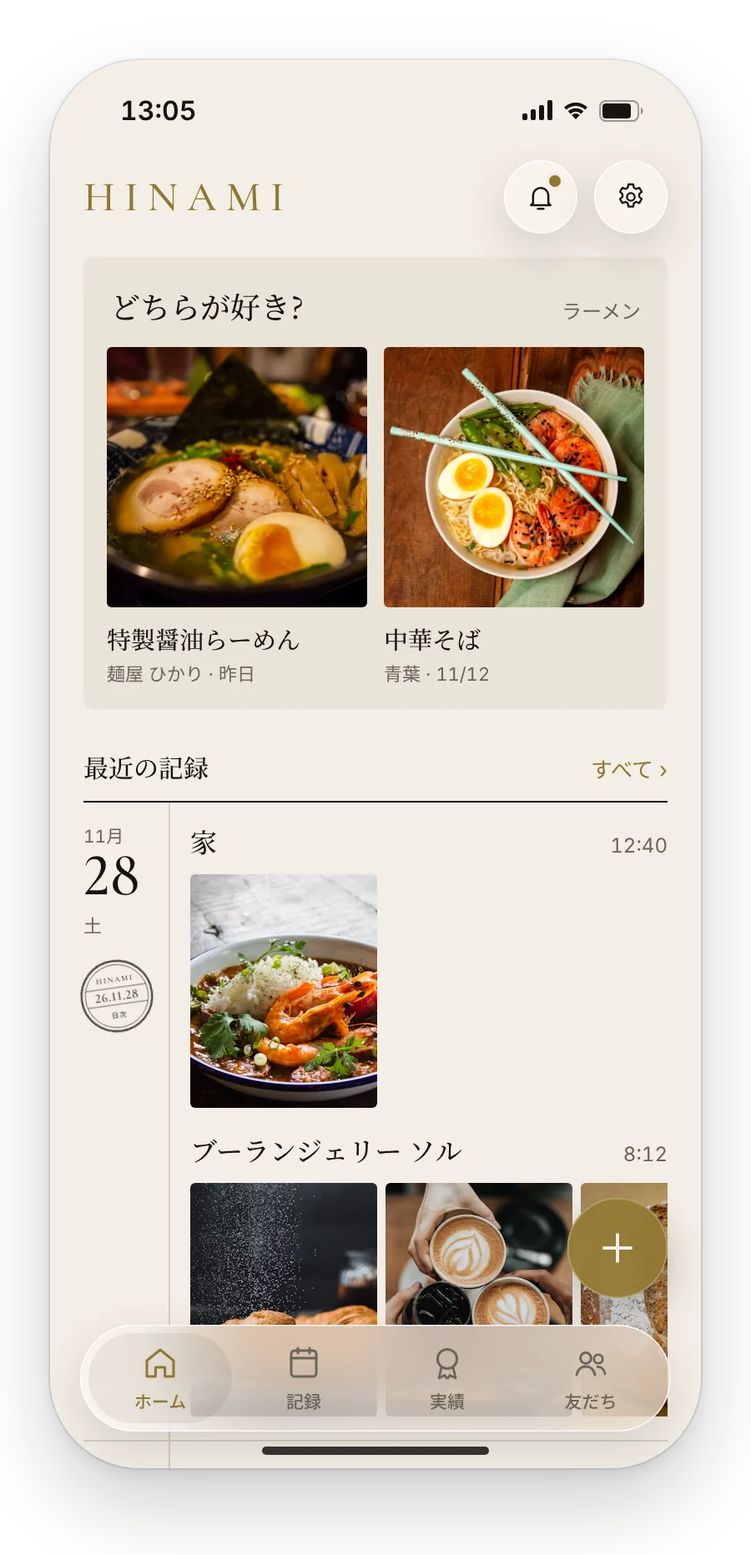
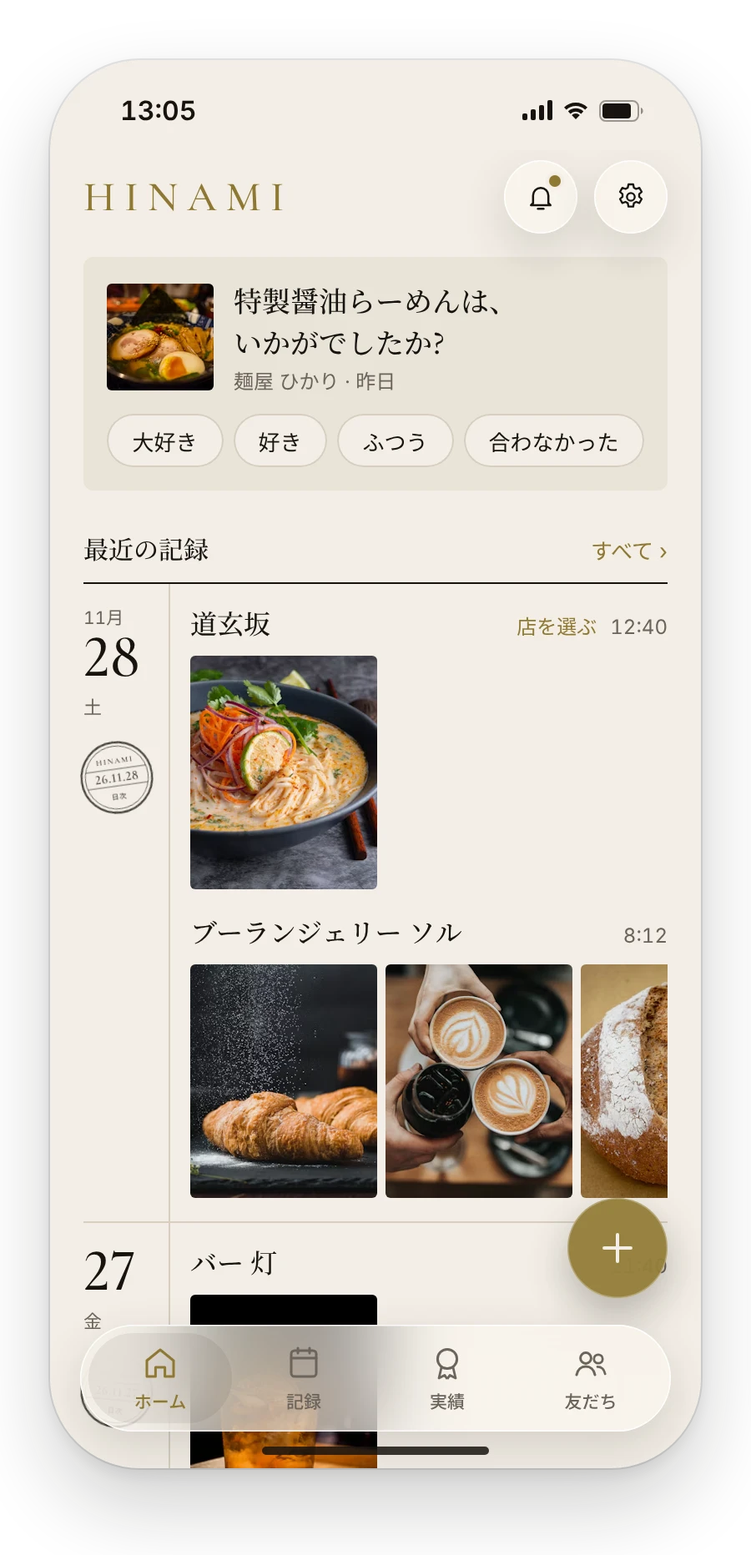
気持ちの仕様に、デザインの文書と画面イメージを合わせる
- 気持ちは言葉で示し、星やハート、段ごとの色を使わない (direction.md の「気持ち」)
- ホームの 2 択を、気持ちの 1 問のカードに替える。店が決まらない食事に「店を選ぶ」を出す
- ランキングを気持ちの段で並べ、番号は比べて決まった品だけに付ける
- 食事の詳細の品に、気持ちを出す
- トークンの使う所の言葉を直し、スライドの画像と文言を差し替える

Claude-Session: https://claude.ai/code/session_01YUQqLJP5HrrJYirxhUtHjp

diff --git a/docs/design/screens/index.html b/docs/design/screens/index.html
@@ -59,14 +59,15 @@ img { display: block; object-fit: cover; background: var(--surface); border-radi
 .top .actions { display: flex; gap: 10px; }
 .dot { position: absolute; top: 9px; right: 10px; width: 7px; height: 7px; border-radius: 50%; background: var(--gold); box-shadow: 0 0 0 2px var(--bg); }
 
-.compare { background: var(--surface); border-radius: 6px; padding: 16px 14px 14px; margin-top: 8px; }
-.compare .q { display: flex; justify-content: space-between; align-items: baseline; padding: 0 2px 12px; }
-.compare .q b { font-size: 18px; }
-.pair { display: flex; gap: 10px; }
-.pick { flex: 1; }
-.pick img { width: 100%; height: 156px; }
-.pick .name { font-size: 14.5px; margin-top: 8px; }
-.pick .meta { font-size: 11px; color: var(--sub); margin-top: 2px; }
+/* feeling question: words only, no stars, hearts, faces or per-level colors */
+.feel { background: var(--surface); border-radius: 6px; padding: 14px; margin-top: 8px; }
+.feel .it { display: flex; gap: 12px; align-items: center; }
+.feel .it img { width: 64px; height: 64px; flex: none; }
+.feel .q { font-size: 17px; line-height: 1.45; }
+.feel .meta { font-size: 12px; color: var(--sub); margin-top: 2px; }
+.feel .opts { display: flex; gap: 6px; margin-top: 12px; }
+.feel .opts .chip { flex: 1 1 auto; justify-content: center; padding: 0 6px; background: var(--bg); }
+.entry .h .pickshop { color: var(--gold); font-style: normal; margin-right: 8px; }
 
 .sec { display: flex; justify-content: space-between; align-items: baseline; margin-top: 24px; padding-bottom: 10px; border-bottom: 1px solid var(--ink); }
 .sec b { font-size: 15px; }
@@ -112,6 +113,7 @@ img { display: block; object-fit: cover; background: var(--surface); border-radi
 .item .name { font-size: 18px; }
 .item .kind { font-size: 12px; color: var(--sub); margin-top: 3px; }
 .item .memo { font-size: 14px; margin-top: 8px; line-height: 1.6; }
+.item .row .chip { margin-left: auto; flex: none; height: 28px; padding: 0 12px; }
 
 /* records tab */
 .ltitle { font-size: 32px; margin-top: 4px; }
@@ -149,6 +151,8 @@ img { display: block; object-fit: cover; background: var(--surface); border-radi
 .rank { display: flex; align-items: center; gap: 12px; padding: 11px 0; border-bottom: 1px solid var(--rule); }
 .rank .r { font-size: 34px; width: 44px; text-align: center; line-height: 1; flex: none; color: var(--gold); }
 .rank .r.range { font-size: 21px; color: var(--sub); }
+.rank .r.yet { font-size: 20px; color: var(--sub); }
+.rhsec { margin-top: 16px; }
 .rank img { width: 58px; height: 58px; }
 .rank .name { font-size: 16px; }
 .rank .meta { font-size: 12px; color: var(--sub); margin-top: 3px; }
@@ -225,7 +229,7 @@ img { display: block; object-fit: cover; background: var(--surface); border-radi
     <div class="nav"><div class="circle glass"><svg aria-hidden="true"><use href="#i-back"/></svg></div><div class="circle glass"><svg aria-hidden="true"><use href="#i-more"/></svg></div></div>
     <div class="dhead2"><div class="dc"><div class="dd d-num">27</div><div class="wd">11月 · 金</div></div><div><b class="m">ビストロ ミモザ</b><div class="pl">恵比寿 · 19:30</div></div></div>
     <div class="item"><img alt="" data-u="1553361371-9b22f78e8b1d" data-w="700" data-h="874">
-      <div class="row"><div><div class="name m">ブルゴーニュ ピノ・ノワール</div><div class="kind">ワイン · 赤</div><div class="memo">軽やかで、酸がきれい。</div></div></div></div>
+      <div class="row"><div><div class="name m">ブルゴーニュ ピノ・ノワール</div><div class="kind">ワイン · 赤</div><div class="memo">軽やかで、酸がきれい。</div></div><div class="chip">大好き</div></div></div>
     <div class="item"><img alt="" data-u="1600891964092-4316c288032e" data-w="700" data-h="874"></div>
   </div>
   <div class="fab"><svg aria-hidden="true"><use href="#i-plus"/></svg></div>
@@ -256,15 +260,16 @@ img { display: block; object-fit: cover; background: var(--surface); border-radi
     <div class="rtitle"><div class="ltitle m">ラーメン</div><span class="t-sm">自分の順位 · 9 品</span></div>
     <div class="note">
       <div class="lab">記録から</div>
-      <p class="m">上位のラーメンは、<br>魚介の清湯が多いようです。</p>
+      <p class="m">大好きなラーメンは、<br>魚介の清湯が多いようです。</p>
       <div class="ev"><img alt="" data-u="1631709497146-a239ef373cf1" data-w="60" data-h="60"><img alt="" data-u="1569718212165-3a8278d5f624" data-w="60" data-h="60"><span>根拠の記録 2 件</span><span class="no">違う</span></div>
     </div>
-    <div style="margin-top:14px;border-top:1px solid var(--rule)"></div>
-    <div class="rank"><div class="r d-num range">1–3</div><img alt="" data-u="1557872943-16a5ac26437e" data-w="116" data-h="116"><div><div class="name m">特製醤油らーめん</div><div class="meta">麺屋 ひかり · 昨日</div></div></div>
+    <div class="hsec rhsec"><b class="m">大好き</b><span>2 品</span></div>
     <div class="rank"><div class="r d-num">1</div><img alt="" data-u="1631709497146-a239ef373cf1" data-w="116" data-h="116"><div><div class="name m">塩らーめん</div><div class="meta">麺処 澄 · 11/03</div></div></div>
     <div class="rank"><div class="r d-num">2</div><img alt="" data-u="1569718212165-3a8278d5f624" data-w="116" data-h="116"><div><div class="name m">中華そば</div><div class="meta">青葉 · 11/12</div></div></div>
-    <div class="rank"><div class="r d-num">3</div><img alt="" data-u="1591814468924-caf88d1232e1" data-w="116" data-h="116"><div><div class="name m">味噌らーめん</div><div class="meta">らーめん 熊 · 10/18</div></div></div>
-    <div class="rank"><div class="r d-num">4</div><img alt="" data-u="1617093727343-374698b1b08d" data-w="116" data-h="116"><div><div class="name m">担々麺</div><div class="meta">家 · 10/05</div></div></div>
+    <div class="hsec rhsec"><b class="m">好き</b><span>4 品</span></div>
+    <div class="rank"><div class="r d-num">1</div><img alt="" data-u="1591814468924-caf88d1232e1" data-w="116" data-h="116"><div><div class="name m">味噌らーめん</div><div class="meta">らーめん 熊 · 10/18</div></div></div>
+    <div class="rank"><div class="r d-num range">2–3</div><img alt="" data-u="1557872943-16a5ac26437e" data-w="116" data-h="116"><div><div class="name m">特製醤油らーめん</div><div class="meta">麺屋 ひかり · 昨日</div></div></div>
+    <div class="rank"><div class="r yet">・</div><img alt="" data-u="1617093727343-374698b1b08d" data-w="116" data-h="116"><div><div class="name m">担々麺</div><div class="meta">家 · 10/05 · まだ比べていない</div></div></div>
   </div>
   <div class="fab"><svg aria-hidden="true"><use href="#i-plus"/></svg></div>
   <div class="tabbar glass" data-tabs="1"></div><div class="homebar"></div>
@@ -347,19 +352,16 @@ img { display: block; object-fit: cover; background: var(--surface); border-radi
   <div class="content">
     <div class="top"><div class="logo">HINAMI</div>
       <div class="actions"><div class="circle glass" style="position:relative"><svg aria-hidden="true"><use href="#i-bell"/></svg><i class="dot"></i></div><div class="circle glass"><svg aria-hidden="true"><use href="#i-gear"/></svg></div></div></div>
-    <div class="compare">
-      <div class="q"><b class="m">どちらが好き?</b><span class="t-sm">ラーメン</span></div>
-      <div class="pair">
-        <div class="pick"><img alt="" data-u="1557872943-16a5ac26437e" data-w="320" data-h="320"><div class="name m">特製醤油らーめん</div><div class="meta">麺屋 ひかり · 昨日</div></div>
-        <div class="pick"><img alt="" data-u="1569718212165-3a8278d5f624" data-w="320" data-h="320"><div class="name m">中華そば</div><div class="meta">青葉 · 11/12</div></div>
-      </div>
+    <div class="feel">
+      <div class="it"><img alt="" data-u="1557872943-16a5ac26437e" data-w="128" data-h="128"><div><div class="q m">特製醤油らーめんは、<br>いかがでしたか?</div><div class="meta">麺屋 ひかり · 昨日</div></div></div>
+      <div class="opts"><div class="chip">大好き</div><div class="chip">好き</div><div class="chip">ふつう</div><div class="chip">合わなかった</div></div>
     </div>
     <div class="sec"><b class="m">最近の記録</b><span>すべて ›</span></div>
     <div class="ledger">
       <div class="dcol"><div class="mo">11月</div><div class="dd d-num">28</div><div class="wd">土</div><svg aria-hidden="true" data-stamp="ink" data-date="26.11.28" data-rot="-8"></svg></div>
       <div class="ecol">
-        <div class="entry"><div class="h"><b class="m">家</b><span>12:40</span></div>
-          <div class="thumbs"><img alt="" data-u="1559847844-5315695dadae" data-w="224" data-h="280"></div></div>
+        <div class="entry"><div class="h"><b class="m">道玄坂</b><span><i class="pickshop">店を選ぶ</i>12:40</span></div>
+          <div class="thumbs"><img alt="" data-u="1617093727343-374698b1b08d" data-w="224" data-h="280"></div></div>
         <div class="entry"><div class="h"><b class="m">ブーランジェリー ソル</b><span>8:12</span></div>
           <div class="thumbs"><img alt="" data-u="1555507036-ab1f4038808a" data-w="224" data-h="280"><img alt="" data-u="1495474472287-4d71bcdd2085" data-w="224" data-h="280"><img alt="" data-u="1586444248902-2f64eddc13df" data-w="224" data-h="280"></div></div>
       </div>
@@ -369,6 +371,8 @@ img { display: block; object-fit: cover; background: var(--surface); border-radi
       <div class="ecol">
         <div class="entry"><div class="h"><b class="m">バー 灯</b><span>21:40</span></div>
           <div class="thumbs"><img alt="" data-u="1514362545857-3bc16c4c7d1b" data-w="224" data-h="280"></div></div>
+        <div class="entry"><div class="h"><b class="m">家</b><span>19:05</span></div>
+          <div class="thumbs"><img alt="" data-u="1559847844-5315695dadae" data-w="224" data-h="280"></div></div>
       </div>
     </div>
   </div>

diff --git a/docs/design/deck/project/slides/photo.html b/docs/design/deck/project/slides/photo.html
@@ -1,5 +1,5 @@
 <section id="photo">
-<img class="ph-r2a rise" style="--i:1" src="/_blob/32c8ce22a2221215a42467a490e3104d" alt="食事の詳細 (明るい紙面)">
+<img class="ph-r2a rise" style="--i:1" src="/_blob/72a7fd851762d4ef232eaa9da8a3fbe5" alt="食事の詳細 (明るい紙面)">
 <img class="ph-r2b rise" style="--i:2" src="/_blob/c4e1835251b0fc738ac9f3bf5daecb5f" alt="記録のタブのカレンダー (明るい紙面)">
 <div class="textcol" style="width:800px">
 <div class="head">
@@ -7,7 +7,7 @@
 <h2>写真は、比率と角をそろえ、<br>印刷した写真のように並べる</h2>
 </div>
 <div class="col">
-<div class="item"><p class="no">01</p><p class="it">比率は 2 つだけ。4:5 (一覧・詳細) と 1:1 (比べる・カレンダー・順位)</p></div>
+<div class="item"><p class="no">01</p><p class="it">比率は 2 つだけ。4:5 (一覧・詳細) と 1:1 (気持ちの問い・比べる・カレンダー・順位)</p></div>
 <div class="item"><p class="no">02</p><p class="it">皿が真ん中に来るよう、自動で切り出す (Vision の注目領域)。写真そのものには手を加えない</p></div>
 <div class="item"><p class="no">03</p><p class="it">写真の角はほとんど立て、丸いガラスの操作と分ける</p></div>
 <div class="item"><p class="no">04</p><p class="it">枠や影で囲まず、余白と細い罫で区切る</p></div>

diff --git a/docs/design/deck/project/slides/note.html b/docs/design/deck/project/slides/note.html
@@ -1,5 +1,5 @@
 <section id="note">
-<img class="ph-r1 rise" style="--i:1" src="/_blob/ac36bb5185681af6b035dc75efb07482" alt="ラーメンのランキングと、余白の書き込み (暗い紙面)">
+<img class="ph-r1 rise" style="--i:1" src="/_blob/727ad4a94af94411aad836d6a929c0f7" alt="ラーメンのランキングと、余白の書き込み (暗い紙面)">
 <div class="widecol" style="width:1180px">
 <div class="head">
 <p class="eyebrow">MARGIN NOTE</p>
@@ -7,7 +7,7 @@
 </div>
 <div class="note">
 <p class="note-lab">記録から</p>
-<p class="note-text">上位のラーメンは、魚介の清湯が多いようです。</p>
+<p class="note-text">大好きなラーメンは、魚介の清湯が多いようです。</p>
 </div>
 <div class="col">
 <div class="item"><p class="no">01</p><p class="it">左に細い線を引いた注釈にし、決めつけない言葉で書く</p></div>

diff --git a/docs/design/deck/project/slides/cover.html b/docs/design/deck/project/slides/cover.html
@@ -1,6 +1,6 @@
 <section id="cover" data-transition="fade">
-<img class="cover-ph1 rise" style="--i:1" src="/_blob/411f69c3497d3d83d1b98ae63dc0e598" alt="ホームの画面イメージ (明るい紙面)">
-<img class="cover-ph2 rise" style="--i:2" src="/_blob/a434e7e9e77bae32329a085be8c9b764" alt="ホームの画面イメージ (暗い紙面)">
+<img class="cover-ph1 rise" style="--i:1" src="/_blob/27b6948c59f152b6d599c06e2df564ab" alt="ホームの画面イメージ (明るい紙面)">
+<img class="cover-ph2 rise" style="--i:2" src="/_blob/fc450f61a33ea153e0693ad795078e47" alt="ホームの画面イメージ (暗い紙面)">
 <div class="cover-col">
 <p class="eyebrow">DESIGN CONCEPT</p>
 <h1 class="logo cover-logo">HINAMI</h1>

diff --git a/docs/design/deck/project/slides/lightdark.html b/docs/design/deck/project/slides/lightdark.html
@@ -1,6 +1,6 @@
 <section id="lightdark" class="paper2">
-<img class="ph-r2a rise" style="--i:1" src="/_blob/411f69c3497d3d83d1b98ae63dc0e598" alt="ホーム (明るい紙面)">
-<img class="ph-r2b rise" style="--i:2" src="/_blob/a434e7e9e77bae32329a085be8c9b764" alt="ホーム (暗い紙面)">
+<img class="ph-r2a rise" style="--i:1" src="/_blob/27b6948c59f152b6d599c06e2df564ab" alt="ホーム (明るい紙面)">
+<img class="ph-r2b rise" style="--i:2" src="/_blob/fc450f61a33ea153e0693ad795078e47" alt="ホーム (暗い紙面)">
 <div class="textcol" style="width:800px">
 <div class="head">
 <p class="eyebrow">LIGHT &amp; DARK</p>

diff --git a/docs/design/deck/project/slides/ledger.html b/docs/design/deck/project/slides/ledger.html
@@ -1,5 +1,5 @@
 <section id="ledger">
-<img class="ph-r1 rise" style="--i:1" src="/_blob/411f69c3497d3d83d1b98ae63dc0e598" alt="ホーム。左に日付の欄、右に記録が並ぶ">
+<img class="ph-r1 rise" style="--i:1" src="/_blob/27b6948c59f152b6d599c06e2df564ab" alt="ホーム。左に日付の欄、右に記録が並ぶ">
 <div class="widecol" style="width:1180px">
 <div class="head">
 <p class="eyebrow">METAPHOR</p>

diff --git a/docs/design/tokens.md b/docs/design/tokens.md
@@ -15,16 +15,16 @@
 
 比は、紙に対するコントラスト。
 
-| 名前           | 役割                                            | 明るい紙面 | 暗い紙面  | 明るい・高コントラスト | 暗い・高コントラスト |
-| -------------- | ----------------------------------------------- | ---------- | --------- | ---------------------- | -------------------- |
-| `paper`        | 紙 (背景)                                       | `#F3EEE6`  | `#16130F` | `#F3EEE6`              | `#16130F`            |
-| `surface`      | 面 (比べるのカード、検索欄、写真の読み込み中)   | `#EAE4D9`  | `#221E19` | `#E2DACC`              | `#2C2620`            |
-| `ink`          | 文字                                            | `#16130F`  | `#F2EDE4` | `#0E0C09`              | `#FFFBF4`            |
-| `inkSecondary` | 補足の文字 (薄墨)                               | `#6B645B`  | `#A39B8F` | `#4F4942`              | `#C4BCB0`            |
-| `rule`         | 罫 (区切り線)                                   | `#D6CEC0`  | `#3A342C` | `#8C8375`              | `#6B6255`            |
-| `gold`         | 操作と順位 (ロゴ、選んだもの、＋、リンク、順位) | `#8F7832`  | `#B8995F` | `#7E6A2C`              | `#CDB27A`            |
-| `onGold`       | 金の塗りの上の文字と記号                        | `#F3EEE6`  | `#16130F` | `#F3EEE6`              | `#16130F`            |
-| `shu`          | 印だけ (実績の印)                               | `#A23F2E`  | `#D6694F` | `#8A3324`              | `#E58066`            |
+| 名前           | 役割                                                            | 明るい紙面 | 暗い紙面  | 明るい・高コントラスト | 暗い・高コントラスト |
+| -------------- | --------------------------------------------------------------- | ---------- | --------- | ---------------------- | -------------------- |
+| `paper`        | 紙 (背景)                                                       | `#F3EEE6`  | `#16130F` | `#F3EEE6`              | `#16130F`            |
+| `surface`      | 面 (気持ちの問いのカード、比べるの面、検索欄、写真の読み込み中) | `#EAE4D9`  | `#221E19` | `#E2DACC`              | `#2C2620`            |
+| `ink`          | 文字                                                            | `#16130F`  | `#F2EDE4` | `#0E0C09`              | `#FFFBF4`            |
+| `inkSecondary` | 補足の文字 (薄墨)                                               | `#6B645B`  | `#A39B8F` | `#4F4942`              | `#C4BCB0`            |
+| `rule`         | 罫 (区切り線)                                                   | `#D6CEC0`  | `#3A342C` | `#8C8375`              | `#6B6255`            |
+| `gold`         | 操作と順位 (ロゴ、選んだもの、＋、リンク、順位)                 | `#8F7832`  | `#B8995F` | `#7E6A2C`              | `#CDB27A`            |
+| `onGold`       | 金の塗りの上の文字と記号                                        | `#F3EEE6`  | `#16130F` | `#F3EEE6`              | `#16130F`            |
+| `shu`          | 印だけ (実績の印)                                               | `#A23F2E`  | `#D6694F` | `#8A3324`              | `#E58066`            |
 
 | 名前           | 明るい紙面 | 暗い紙面 | 明るい・高コントラスト | 暗い・高コントラスト |
 | -------------- | ---------- | -------- | ---------------------- | -------------------- |
@@ -62,20 +62,20 @@
 
 ### 文字の段
 
-| 名前          | 書体         | 大きさ (pt) | 元にする Dynamic Type の段 | 上限   | 使う所                                |
-| ------------- | ------------ | ----------- | -------------------------- | ------ | ------------------------------------- |
-| `dateDisplay` | `fontLatin`  | 46          | Large Title                | 1.2 倍 | 月の数字、食事の詳細の日付            |
-| `dateColumn`  | `fontLatin`  | 36          | Title 1                    | 1.2 倍 | 帳簿の日付の欄、順位                  |
-| `titleLarge`  | `fontMincho` | 32          | Large Title                | なし   | 画面の見出し (記録、実績、種類の名前) |
-| `title`       | `fontMincho` | 22          | Title 2                    | なし   | 食事の詳細の店名                      |
-| `heading`     | `fontMincho` | 18          | Title 3                    | なし   | 品名 (大)、比べるの問い、好みのことば |
-| `name`        | `fontMincho` | 16          | Callout                    | なし   | 一覧の店名と品名、節の見出し          |
-| `nameSmall`   | `fontMincho` | 13          | Footnote                   | なし   | 実績の名前                            |
-| `body`        | `fontSans`   | 17          | Body                       | なし   | 本文、操作                            |
-| `subhead`     | `fontSans`   | 15          | Subheadline                | なし   | 検索欄、メモ                          |
-| `footnote`    | `fontSans`   | 13          | Footnote                   | なし   | 補足、リンク                          |
-| `caption`     | `fontSans`   | 12          | Caption 1                  | なし   | 時刻、店名の下の情報                  |
-| `caption2`    | `fontSans`   | 11          | Caption 2                  | なし   | 曜日、件数                            |
+| 名前          | 書体         | 大きさ (pt) | 元にする Dynamic Type の段 | 上限   | 使う所                                              |
+| ------------- | ------------ | ----------- | -------------------------- | ------ | --------------------------------------------------- |
+| `dateDisplay` | `fontLatin`  | 46          | Large Title                | 1.2 倍 | 月の数字、食事の詳細の日付                          |
+| `dateColumn`  | `fontLatin`  | 36          | Title 1                    | 1.2 倍 | 帳簿の日付の欄、順位                                |
+| `titleLarge`  | `fontMincho` | 32          | Large Title                | なし   | 画面の見出し (記録、実績、種類の名前)               |
+| `title`       | `fontMincho` | 22          | Title 2                    | なし   | 食事の詳細の店名                                    |
+| `heading`     | `fontMincho` | 18          | Title 3                    | なし   | 品名 (大)、気持ちの問い、比べるの問い、好みのことば |
+| `name`        | `fontMincho` | 16          | Callout                    | なし   | 一覧の店名と品名、節の見出し                        |
+| `nameSmall`   | `fontMincho` | 13          | Footnote                   | なし   | 実績の名前                                          |
+| `body`        | `fontSans`   | 17          | Body                       | なし   | 本文、操作                                          |
+| `subhead`     | `fontSans`   | 15          | Subheadline                | なし   | 検索欄、メモ                                        |
+| `footnote`    | `fontSans`   | 13          | Footnote                   | なし   | 補足、リンク                                        |
+| `caption`     | `fontSans`   | 12          | Caption 1                  | なし   | 時刻、店名の下の情報                                |
+| `caption2`    | `fontSans`   | 11          | Caption 2                  | なし   | 曜日、件数                                          |
 
 - 時刻や件数のように桁がそろってほしい数字は、等幅の数字にする
 - いちばん大きな文字の設定では、カレンダーを日ごとの一覧に替える ([`direction.md`](direction.md) の「使いやすさ」)
@@ -103,7 +103,7 @@
 | 名前          | 値 (pt)      | 使う所                                                    |
 | ------------- | ------------ | --------------------------------------------------------- |
 | `radiusPhoto` | 3            | 写真。印刷した写真のように角を立てる                      |
-| `radiusSlip`  | 6            | 紙面の上の面 (比べるのカードなど)                         |
+| `radiusSlip`  | 6            | 紙面の上の面 (気持ちの問いのカードなど)                   |
 | `radiusField` | 12           | 検索欄                                                    |
 | (OS に任せる) | 丸・カプセル | 操作の層 (ボタン、タブバー、シート、絞り込み)。ガラスの形 |
 
@@ -122,10 +122,10 @@
 
 ## 写真
 
-| 名前            | 比率 | 使う所                   |
-| --------------- | ---- | ------------------------ |
-| `photoPortrait` | 4:5  | 一覧、食事の詳細         |
-| `photoSquare`   | 1:1  | 比べる、カレンダー、順位 |
+| 名前            | 比率 | 使う所                                 |
+| --------------- | ---- | -------------------------------------- |
+| `photoPortrait` | 4:5  | 一覧、食事の詳細                       |
+| `photoSquare`   | 1:1  | 気持ちの問い、比べる、カレンダー、順位 |
 
 - 皿が真ん中に来るよう、注目領域 (Vision) で切り出す。写真そのものには手を加えない
 

diff --git a/docs/design/direction.md b/docs/design/direction.md
@@ -51,6 +51,16 @@
 - 金の明るさは紙面ごとに変える。明るい紙面の金は、大きな文字・アイコン・枠の基準 (3:1) を満たし、小さな文字の基準 (4.5:1) には届かない明るさにした (作り手の判断)。その分、コントラストを上げる設定では濃くする
 - アプリの外で使うブランドの金は、アイコンの金を代表色にし、明るい地では明るい紙面の金に替える ([`tokens.md`](tokens.md) の「ブランドの金」)
 
+## 気持ち
+
+気持ち (大好き / 好き / ふつう / 合わなかった) は、言葉で示す (今の案。2026-11-28)。
+
+- 星、ハート、顔の絵、目盛りで段を表さない。点数や平均に見えるため (気持ちは数字にしない。[`../ux/compare.md`](../ux/compare.md))
+- 段ごとに色を変えない。「合わなかった」を赤くしない。料理の出来を責めない言葉にした決まりと合わせる
+- 答える所 (ホームの問い、品の画面) は、4 つの言葉を同じ形の小さなボタンで並べる。選んだものだけ金にする (金は操作)
+- ランキングでは、気持ちを段の見出しにする。順位の番号 (金) は、比べて決まった品だけに付ける。途中まで比べた品は幅 (2–3)、まだ比べていない品は点で示す
+- 友だちに見せる画面には出さない
+
 ## 書体
 
 | 書体                      | 用途                   | 備考                                      |
@@ -64,7 +74,7 @@
 
 ## 写真
 
-- 比率は 4:5 (一覧・詳細) と 1:1 (比べる・カレンダー・順位) の 2 つ
+- 比率は 4:5 (一覧・詳細) と 1:1 (気持ちの問い・比べる・カレンダー・順位) の 2 つ
 - 皿が真ん中に来るよう、自動で切り出す (Vision の注目領域)。写真そのものには手を加えない
 - 写真の角はほとんど立てる (印刷した写真のように)。丸いガラスの操作と分ける
 - 画面イメージの写真は仮置き (Unsplash)
